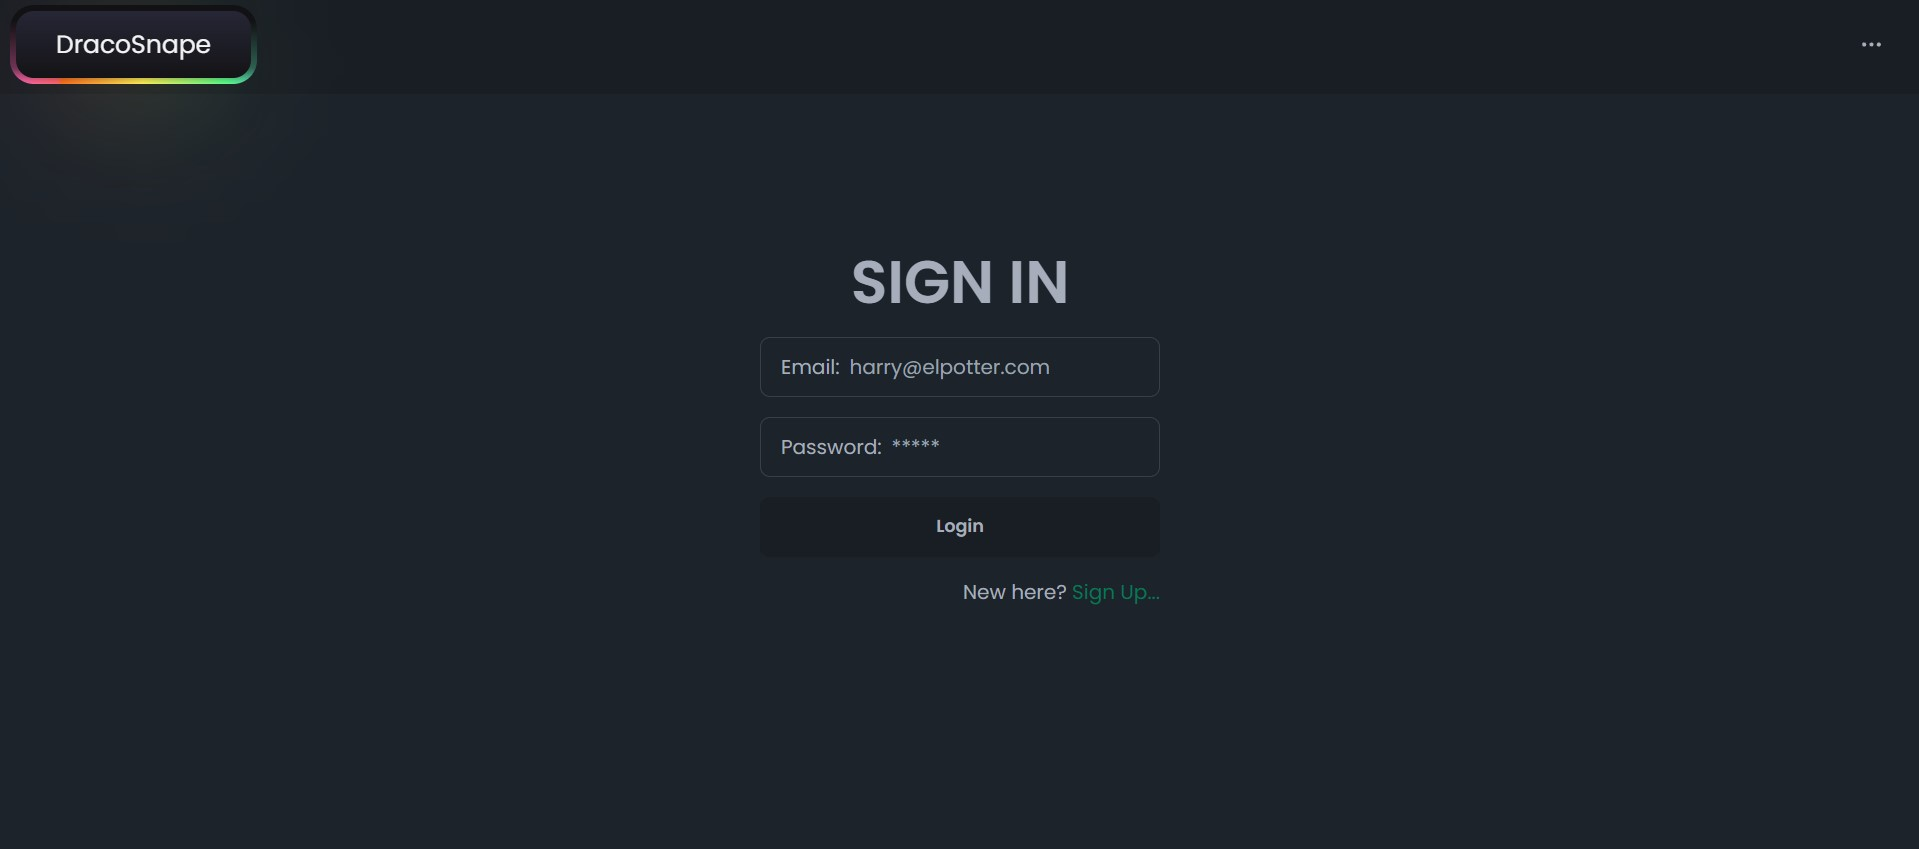
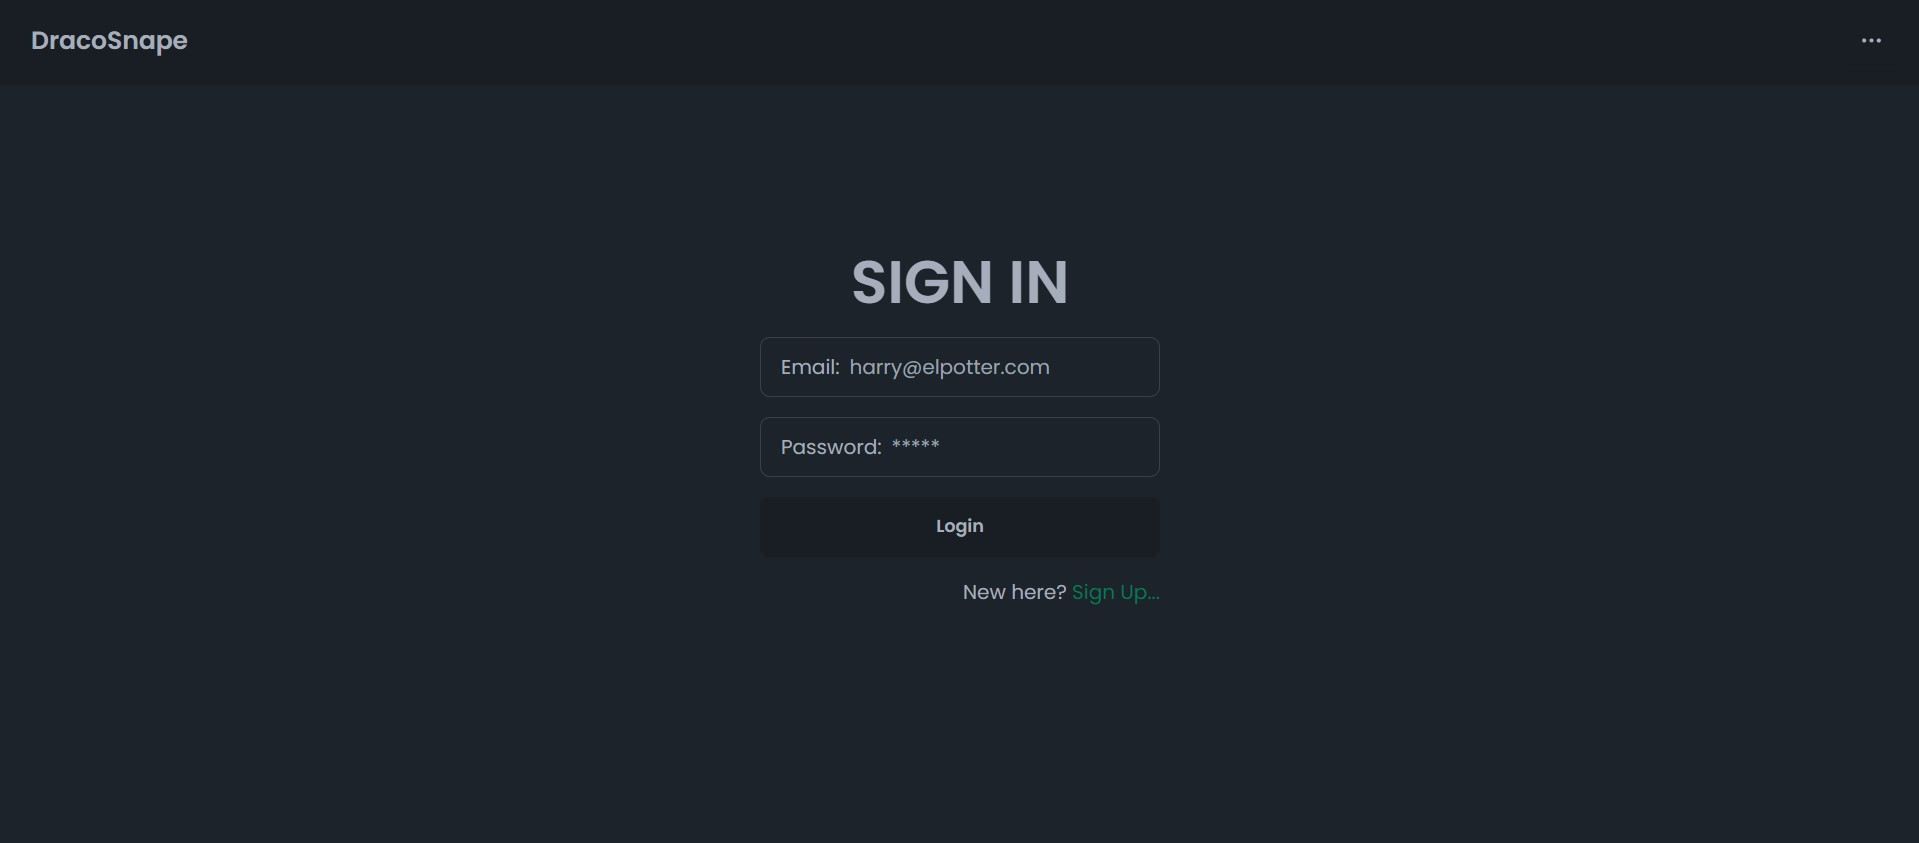
Update README.md and frontend configuration

diff --git a/frontend/src/components/Navbar.jsx b/frontend/src/components/Navbar.jsx
@@ -4,7 +4,7 @@ export const Navbar = () => {
   return (
     <div className="navbar bg-base-200 fixed">
       <div className="flex-1">
-        <Link to='/' className="btn btn-ghost text-xl">DracoSnape 2024</Link>
+        <Link to='/' className="btn btn-ghost text-xl">DracoSnape</Link>
       </div>
       <div className="flex-none">
         <div className="dropdown dropdown-end ">

diff --git a/README.md b/README.md
@@ -1,5 +1,5 @@
 ## IS 2024 - DracoSnape
-### Main Page![mainPage](https://github.com/gasteac/IS-2024-CI-CD/blob/main/frontend/public/images/pic.jpg?raw=true)
+![mainPage](https://github.com/gasteac/IS-2024-CI-CD/blob/main/frontend/public/images/pic.jpg?raw=true)
 
 #### Check it out here: [https://dracosnape.up.railway.app/](https://dracosnape.up.railway.app/)
 ### This project was made with:
@@ -11,6 +11,7 @@
  - Node.js + Express.js
  - Formik + Yup
  - Axios
+ - DaisyUI
  - JWT
 
 To test it out, clone the repository
